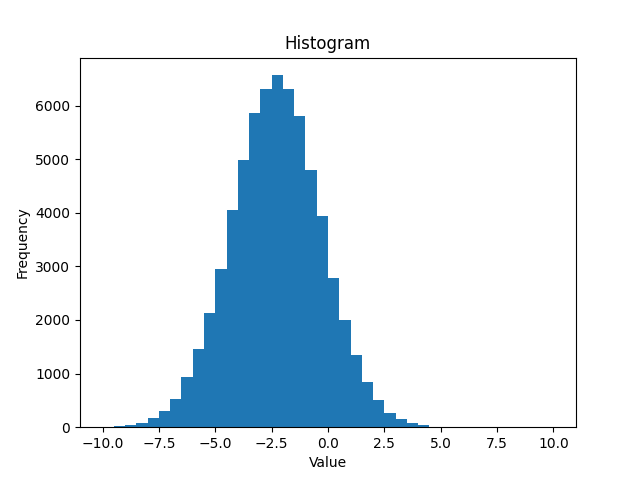
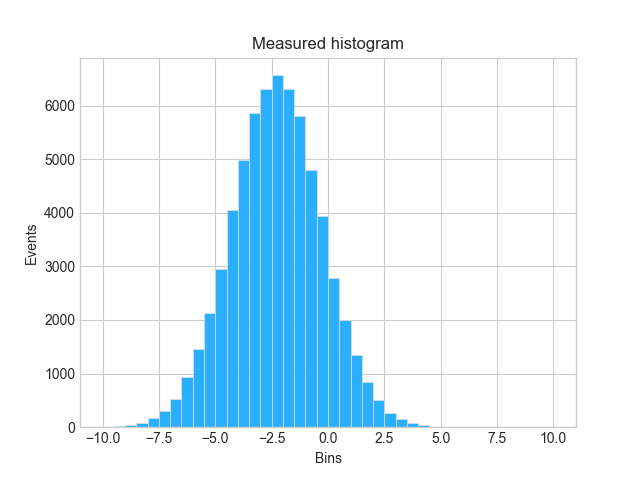
QUnfold class plots style update.

diff --git a/src/QUnfold/core/QUnfold.py b/src/QUnfold/core/QUnfold.py
@@ -50,10 +50,16 @@ class QUnfold:
         # QUnfold(response, measured_bin_contents)
         elif len(args) == 3:
 
-            # Check that input matrix is correct
+            # Check that inputs are correct
             assert is_matrix(
                 args[0]
             ), "The first element of the 2-dim constructor must be a NumPy matrix (response)!"
+            assert isinstance(
+                args[1], np.ndarray
+            ), "The second element of the 2-dim constructor must be a NumPy array (bin contents)!"
+            assert isinstance(
+                args[2], np.ndarray
+            ), "The second element of the 2-dim constructor must be a NumPy array (bin edges)!"
 
             # Initialize variables
             self.response = args[0]
@@ -102,7 +108,7 @@ class QUnfold:
             self.response.any() != None
         ), "Response matrix should be initialized before plotting it!"
 
-        # Set up plot settings
+        # Set up plot
         plt.imshow(
             np.transpose(self.response),
             cmap="viridis",
@@ -114,6 +120,8 @@ class QUnfold:
             ],
             origin="lower",
         )
+
+        # Plot settings
         plt.colorbar(label="Response Value")
         plt.xlabel("Column (measured))")
         plt.ylabel("Row (truth)")
@@ -145,21 +153,38 @@ class QUnfold:
         Create a bar chart histogram based on the bin contents and bin edges of the measured distribution.
         """
 
+        # Check that inputs are correct
+        assert isinstance(
+            self.measured_bin_contents, np.ndarray
+        ), "The second element of the 2-dim constructor must be a NumPy array (bin contents)!"
+        assert isinstance(
+            self.measured_bin_edges, np.ndarray
+        ), "The second element of the 2-dim constructor must be a NumPy array (bin edges)!"
+
+        # Set style
+        plt.style.use("seaborn-whitegrid")
+
+        # Set up plot
         plt.bar(
             self.measured_bin_edges[:-1],
             self.measured_bin_contents,
             width=np.diff(self.measured_bin_edges),
             align="edge",
+            facecolor="#2ab0ff",
+            edgecolor="#e0e0e0",
+            linewidth=0.5,
         )
+
+        # Plot settings
         plt.xlabel("Bins")
-        plt.ylabel("Frequency")
+        plt.ylabel("Events")
         plt.title("Measured histogram")
 
     def plotMeasured(self):
         """
         Plot the measured distribution histogram.
         """
-        
+
         self.__plotMeasuredSetup()
         plt.show()
         plt.close()

diff --git a/tests/core/tests_QUnfold.py b/tests/core/tests_QUnfold.py
@@ -67,3 +67,4 @@ def test_QUnfold_constructor(response, bin_contents):
         QUnfold(response)
         QUnfold(response, response)
         QUnfold(response, bin_contents, bin_contents)
+        QUnfold(response, bin_contents, [1, 2, 3])
